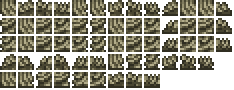
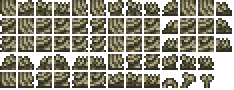
Polish

Changed region(s): [[0.688, 0.8, 0.9274, 0.9778]]

diff --git a/Content/Forest/Graveyard/SkeletonHand.cs b/Content/Forest/Graveyard/SkeletonHand.cs
@@ -1,6 +1,5 @@
 using RubbleAutoloader;
 using SpiritReforged.Common.Particle;
-using SpiritReforged.Common.TileCommon;
 using Terraria.DataStructures;
 using Terraria.GameContent.Drawing;
 using TileHelper.Common;
@@ -22,21 +21,56 @@ public class SkeletonHand : ModTile, IAutoloadRubble
 		Main.tileFrameImportant[Type] = true;
 
 		TileID.Sets.CanDropFromRightClick[Type] = true;
-		TileHelperSets.TileGlowmask[Type] = Helpers.RequestGlowmask(this);
+		TileHelperSets.TileGlowmask[Type] = Helpers.RequestGlowmask(this, GetGlowColor);
 
+		const int height = 30;
 		TileObjectData.newTile.CopyFrom(TileObjectData.Style1x1);
 		TileObjectData.newTile.CoordinateWidth = 26;
-		TileObjectData.newTile.CoordinateHeights = [38];
-		TileObjectData.newTile.DrawYOffset = -16;
-		TileObjectData.newTile.AnchorBottom = new AnchorData(AnchorType.SolidTile | AnchorType.AlternateTile, 1, 0);
-		TileObjectData.newTile.AnchorAlternateTiles = [ModContent.TileType<BonePile>()];
+		TileObjectData.newTile.CoordinateHeights = [height];
+		TileObjectData.newTile.DrawYOffset = -(height - 18);
+		TileObjectData.newTile.AnchorBottom = new AnchorData(AnchorType.SolidTile, 1, 0);
 		TileObjectData.newTile.StyleHorizontal = true;
 		TileObjectData.newTile.RandomStyleRange = 3;
+
+		/*TileObjectData.newAlternate.CopyFrom(TileObjectData.newTile);
+		TileObjectData.newAlternate.AnchorBottom = new AnchorData(AnchorType.SolidTile | AnchorType.AlternateTile, 1, 0);
+		TileObjectData.newAlternate.AnchorAlternateTiles = [ModContent.TileType<BonePile>()];
+		TileObjectData.newAlternate.DrawYOffset = -(height - 18) + 4;
+
+		TileObjectData.addAlternate(0);*/ //Alternate style not working, for some reason
 		TileObjectData.addTile(Type);
 
 		AddMapEntry(new Color(165, 165, 150));
 		RegisterItemDrop(ModContent.ItemType<SafekeeperRing>());
-		DustType = -1;
+	}
+
+	private static Color GetGlowColor(int i, int j)
+	{
+		float mult = MathHelper.Clamp(1f - Main.LocalPlayer.Distance(new Vector2(i, j) * 16) / 150f, 0, 1);
+		float lerp = (float)Math.Sin(Main.timeForVisualEffects / 50f) * 0.25f;
+
+		return Color.White * (mult + lerp);
+	}
+
+	public override void NearbyEffects(int i, int j, bool closer)
+	{
+		if (closer && !Main.gamePaused && Main.rand.NextBool(5))
+		{
+			Tile tile = Main.tile[i, j];
+			float mult = MathHelper.Clamp(1f - Main.LocalPlayer.Distance(new Vector2(i, j) * 16) / 150f, 0, 1);
+
+			if (!TileDrawing.IsVisible(tile) || TileObjectData.GetTileData(tile) is not TileObjectData objectData || mult < 0.15f)
+				return;
+
+			Rectangle source = new(tile.TileFrameX, tile.TileFrameY, objectData.CoordinateWidth, objectData.CoordinateFullHeight);
+			Vector2 position = new Vector2(i, j) * 16 - new Vector2((source.Width - 16) / 2, source.Height - 16 - 4);
+
+			int style = TileObjectData.GetTileStyle(Main.tile[i, j]);
+			var dustPos = position + glowPoints[style].ToVector2() + Main.rand.NextVector2Unit() * Main.rand.NextFloat(3f);
+
+			ParticleHandler.SpawnParticle(new Particles.GlowParticle(dustPos,
+				Vector2.UnitY * -Main.rand.NextFloat(0.5f), Color.White, Color.Orange, 0.15f, 30, 5));
+		}
 	}
 
 	public override void MouseOver(int i, int j)
@@ -45,30 +79,5 @@ public class SkeletonHand : ModTile, IAutoloadRubble
 		player.noThrow = 2;
 		player.cursorItemIconEnabled = true;
 		player.cursorItemIconID = ModContent.ItemType<SafekeeperRing>();
-	}
-
-	public override void PostDraw(int i, int j, SpriteBatch spriteBatch)
-	{
-		Tile tile = Main.tile[i, j];
-		if (!TileDrawing.IsVisible(tile) || TileObjectData.GetTileData(tile) is not TileObjectData data)
-			return;
-
-		Rectangle source = new(tile.TileFrameX, tile.TileFrameY, data.CoordinateWidth, data.CoordinateFullHeight);
-		Vector2 position = new Vector2(i, j) * 16 - new Vector2((source.Width - 16) / 2, source.Height - 16 - 4);
-
-		float lerp = (float)Math.Sin(Main.timeForVisualEffects / 50f) * .25f;
-		float mult = MathHelper.Clamp(1f - Main.LocalPlayer.Distance(new Vector2(i, j) * 16) / 150f, 0, 1);
-
-		spriteBatch.Draw(TileHelperSets.TileGlowmask[Type].Texture.Value, position - Main.screenPosition + TileMethods.TileOffset, 
-			source, Color.White * (mult + lerp), 0, Vector2.Zero, 1, SpriteEffects.None, 0);
-
-		if (!Main.gamePaused && mult > 0.15f && Main.rand.NextBool(5))
-		{
-			int style = TileObjectData.GetTileStyle(Main.tile[i, j]);
-			var dustPos = position + glowPoints[style].ToVector2() + Main.rand.NextVector2Unit() * Main.rand.NextFloat(3f);
-
-			ParticleHandler.SpawnParticle(new Particles.GlowParticle(dustPos,
-				Vector2.UnitY * -Main.rand.NextFloat(0.5f), Color.White, Color.Orange, .15f, 30, 5));
-		}
 	}
 }

diff --git a/Content/Forest/Graveyard/BonePile.cs b/Content/Forest/Graveyard/BonePile.cs
@@ -32,6 +32,13 @@ public class BonePile : ModTile
 
 		spriteBatch.Draw(texture, position, source, Lighting.GetColor(i, j), 0, Vector2.Zero, 1, 0, 0f);
 
+		if (tile.TileFrameX >= 18 && tile.TileFrameX <= 54 && tile.TileFrameY == 0)
+		{
+			int frame = tile.TileFrameX / 18 - 1;
+			Rectangle source2 = new(162 + 18 * frame, 72, 16, 16);
+			spriteBatch.Draw(texture, position - new Vector2(0, 10), source2, Lighting.GetColor(i, j), 0, Vector2.Zero, 1, 0, 0f);
+		}
+
 		if (!Main.gamePaused)
 			SpawnDusts(new(i * 16, j * 16, 16, 16), Color.White);
 

diff --git a/Content/Forest/Cloud/Tiles/HangingCloudstalk.cs b/Content/Forest/Cloud/Tiles/HangingCloudstalk.cs
@@ -28,6 +28,7 @@ public class HangingCloudstalk : ModTile, ILoadItem
 		TileObjectData.newTile.Direction = TileObjectDirection.PlaceLeft;
 		TileObjectData.newTile.StyleHorizontal = true;
 		TileObjectData.newTile.AnchorTop = new AnchorData(TileObjectData.newTile.AnchorTop.type, 2, 0);
+
 		TileObjectData.newAlternate.CopyFrom(TileObjectData.newTile);
 		TileObjectData.newAlternate.Direction = TileObjectDirection.PlaceRight;
 		TileObjectData.addAlternate(1);

diff --git a/Common/WorldGeneration/Micropasses/Passes/GraveyardMicropass.cs b/Common/WorldGeneration/Micropasses/Passes/GraveyardMicropass.cs
@@ -566,6 +566,7 @@ internal class GraveyardMicropass : Micropass
 
 		WorldUtils.Gen(bounds.Location, new ModShapes.All(data), Actions.Chain(
 			new Modifiers.RectangleMask(-bounds.Width, bounds.Width, 1, bounds.Height),
+			new Modifiers.Blotches(),
 			new Modifiers.IsNotSolid(),
 			new Actions.PlaceTile((ushort)ModContent.TileType<BonePile>())
 		));
